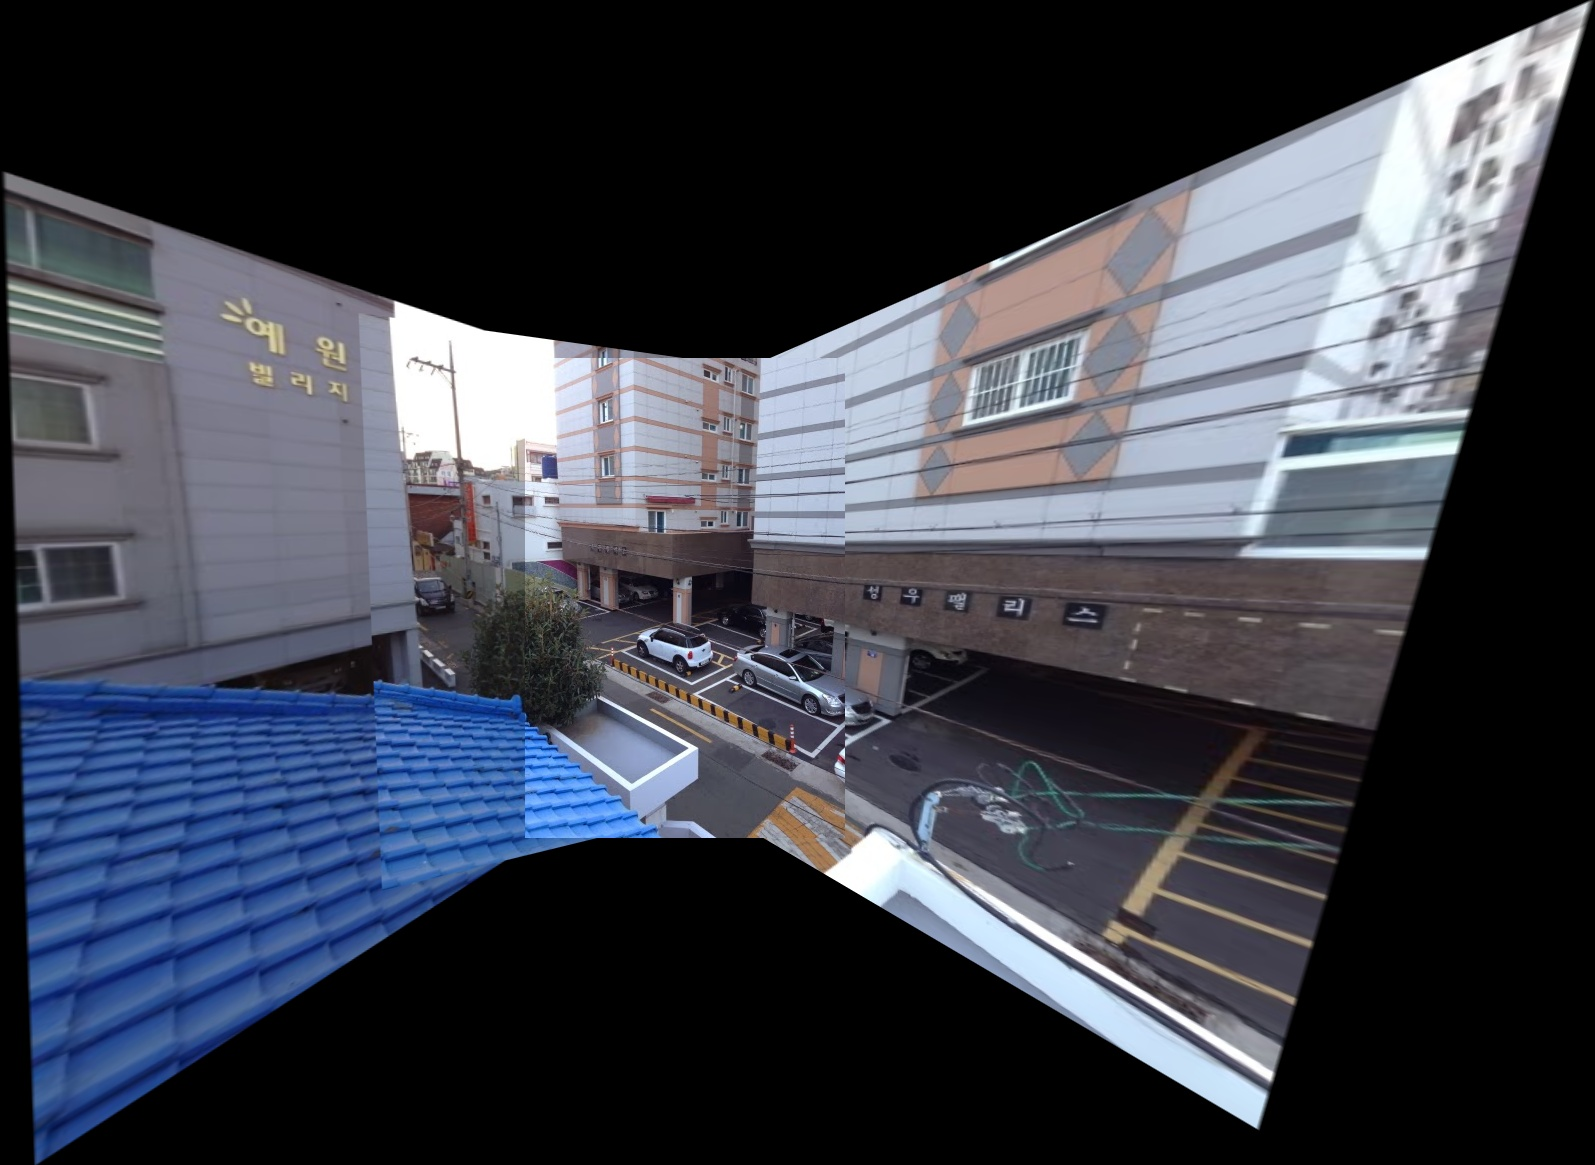
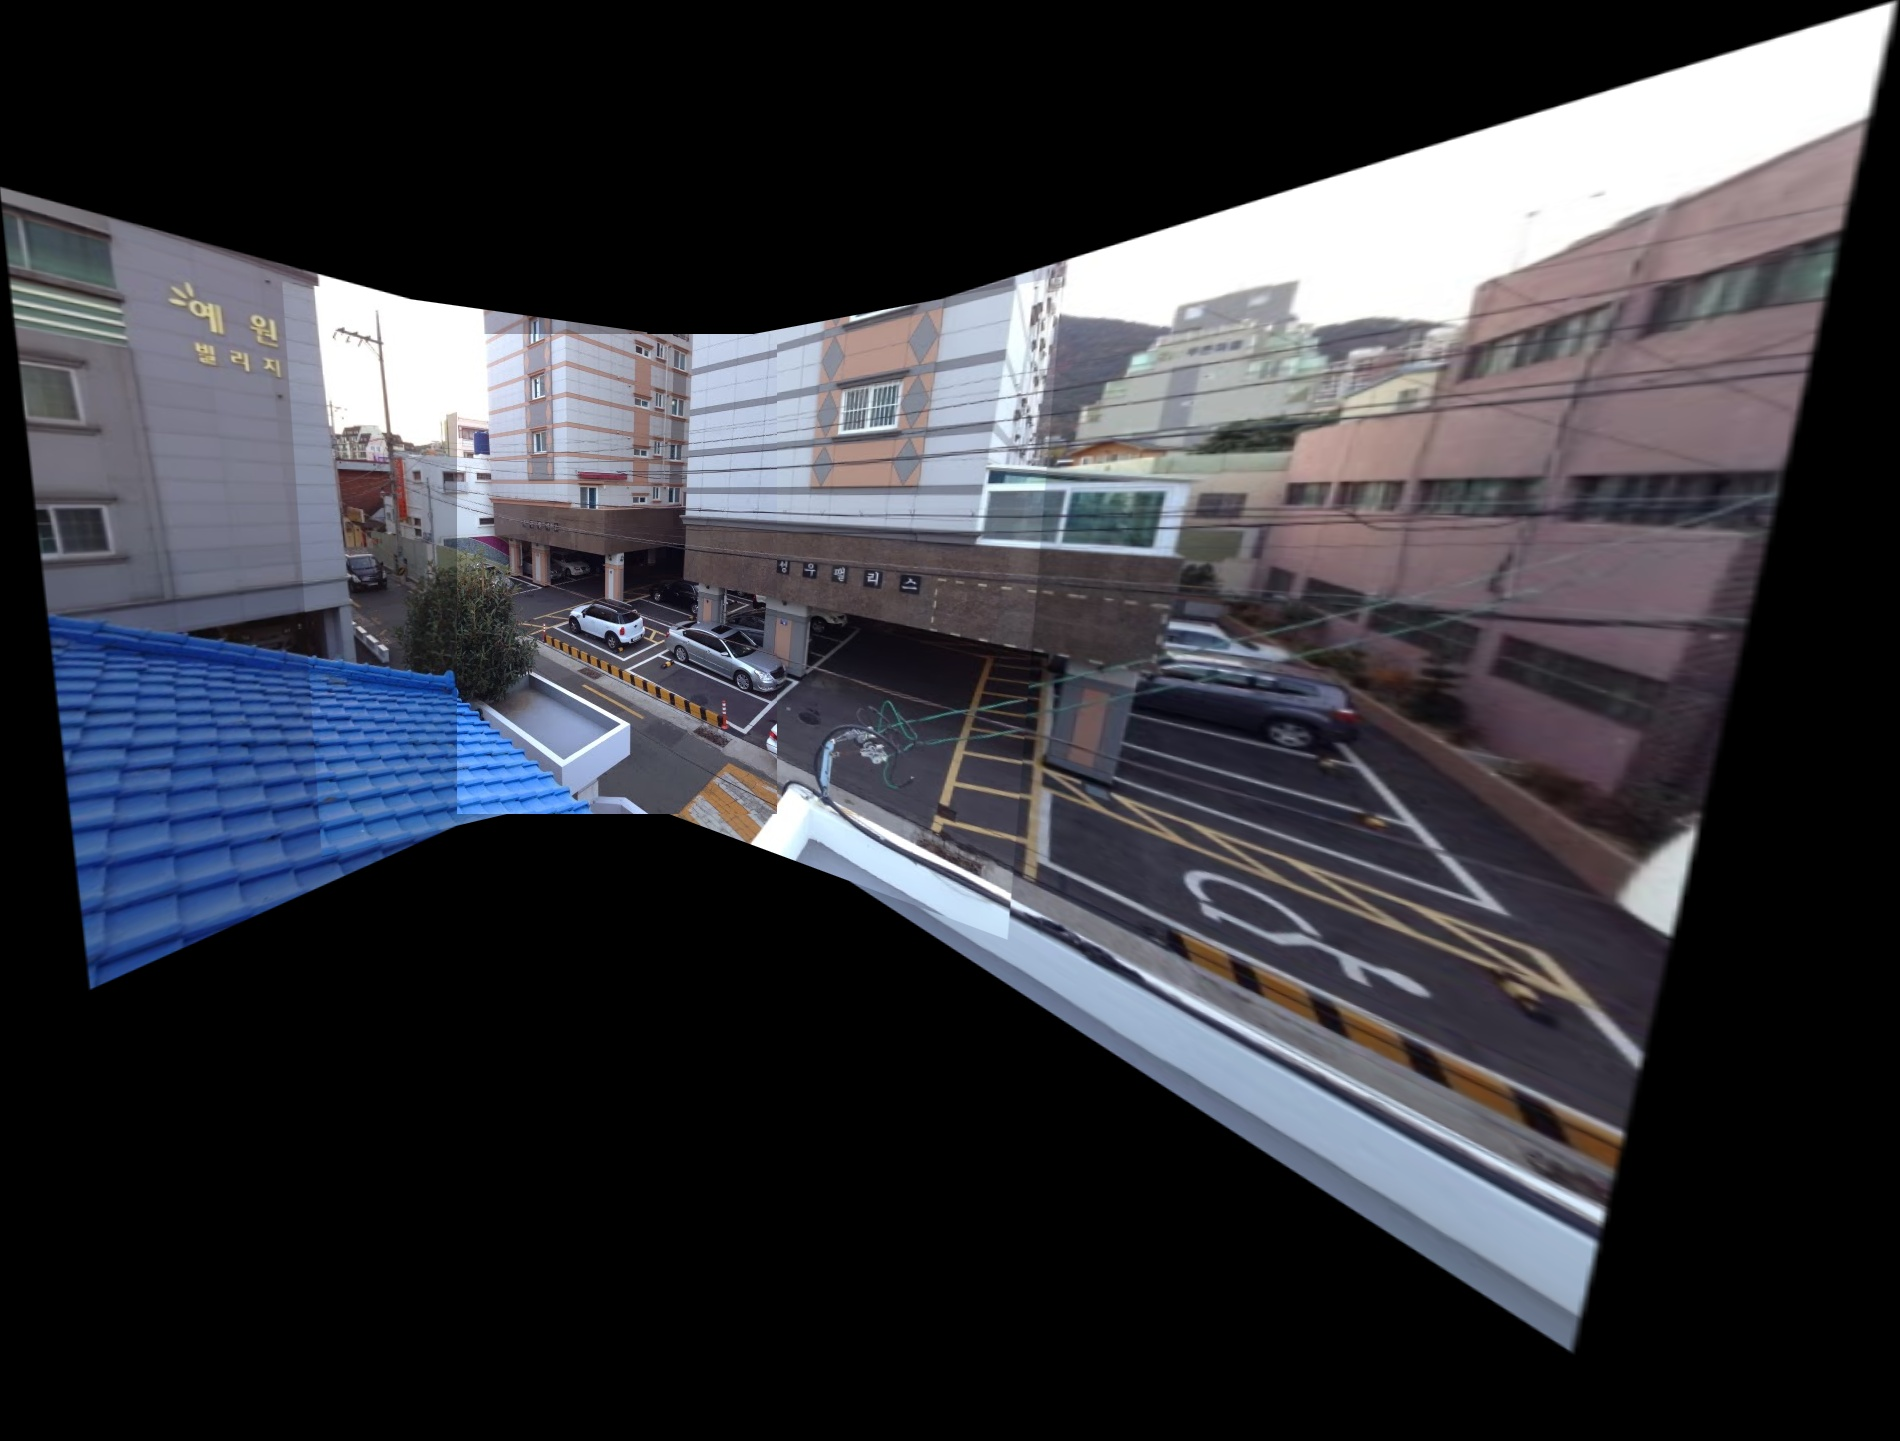
Update README and add new stitched image

diff --git a/README.md b/README.md
@@ -27,12 +27,14 @@ Used packages:
 2. Run `python main.py --txt-path <Path to .txt file containing image paths>`. You can save the resulting image by
    providing a `--save-path` flag with the corresponding destination path.
 3. If the algorithm fails it is mostly because it didn't find enough matched keypoints. In such cases the script has
-   multiple hyperparameters, which you can experiment with. The default values should work for most instances. For more
-   information on the different options run `python main.py --help`.
+   multiple hyperparameters, which you can experiment with. For more information on the different options
+   run `python main.py --help`.
 
 # Demo
 
-The assets directory contains demo files which you can use to try out the algorithm: (images are taken from [here](https://github.com/kushalvyas/Python-Multiple-Image-Stitching) for comparison).
+The assets directory contains demo files which you can use to try out the algorithm: (images are taken
+from [here](https://github.com/kushalvyas/Python-Multiple-Image-Stitching) for comparison).
 
-`python main.py --txt-path assets/files2.txt` will plot following image:
+E.g. `python main.py --txt-path assets/files2.txt --ratio-thresh 0.7 --kernel-size 1 --downscale-factor 1` will not blur
+or downscale the images and will plot following resulting panorama:
 ![](assets/S_stitched.jpg)
